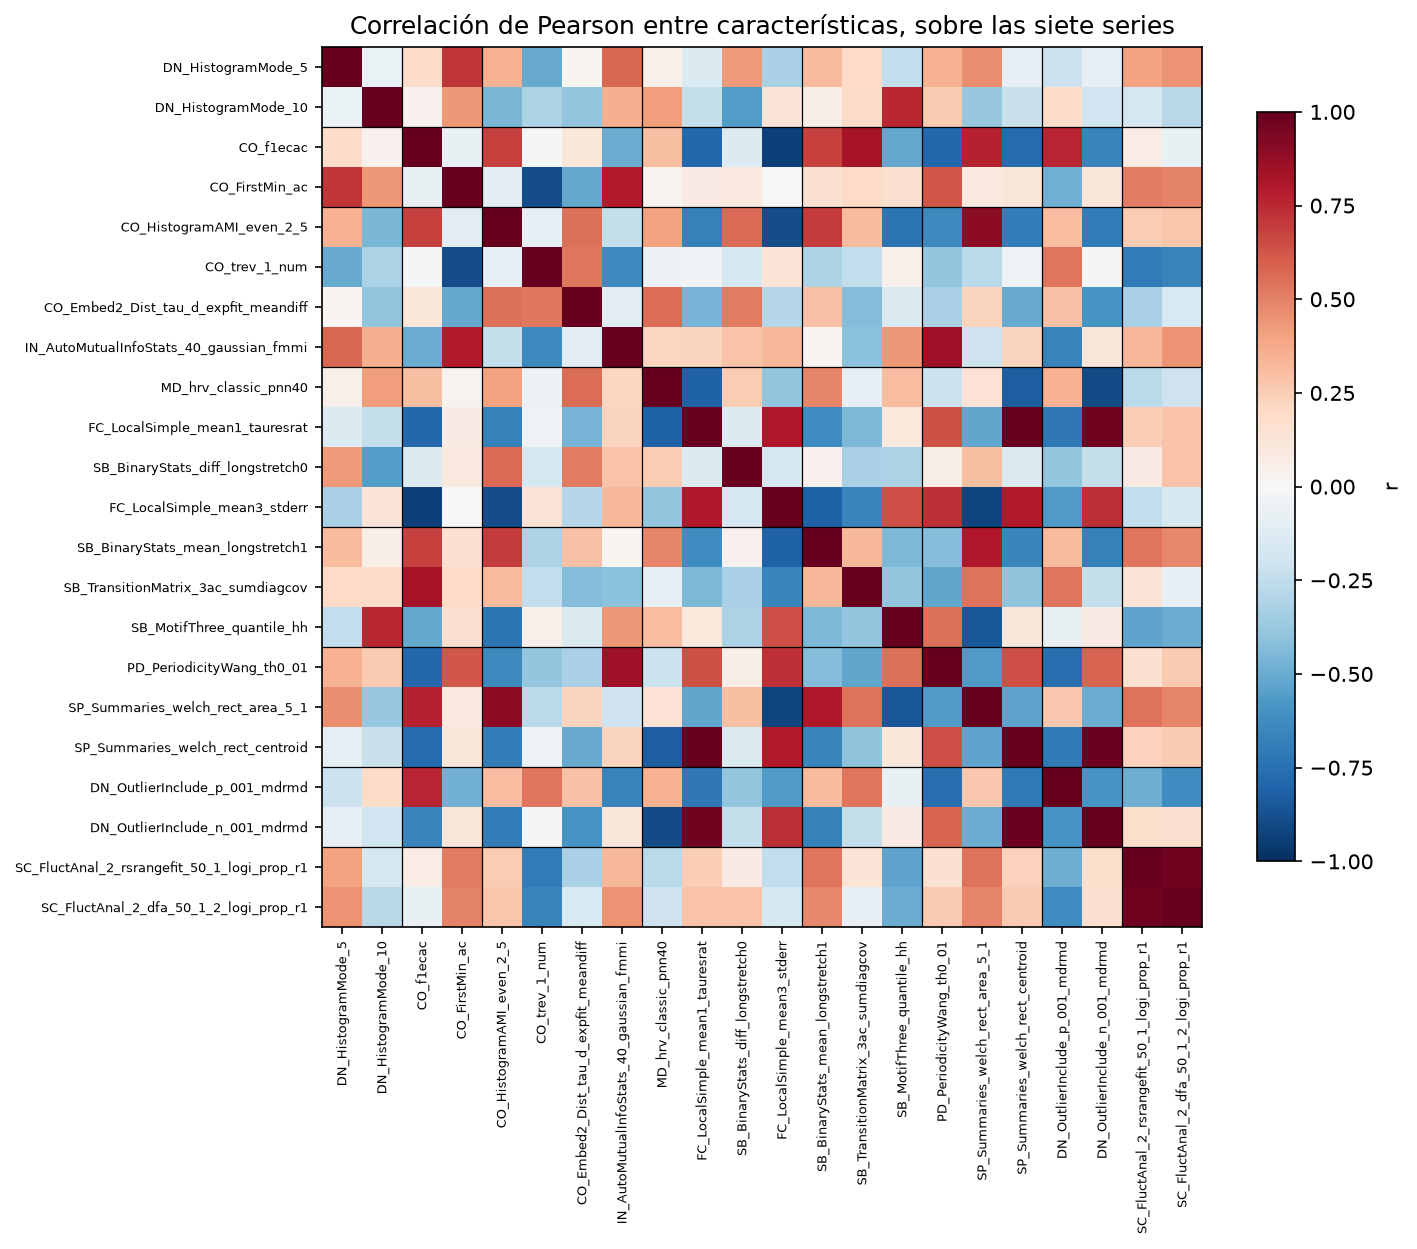
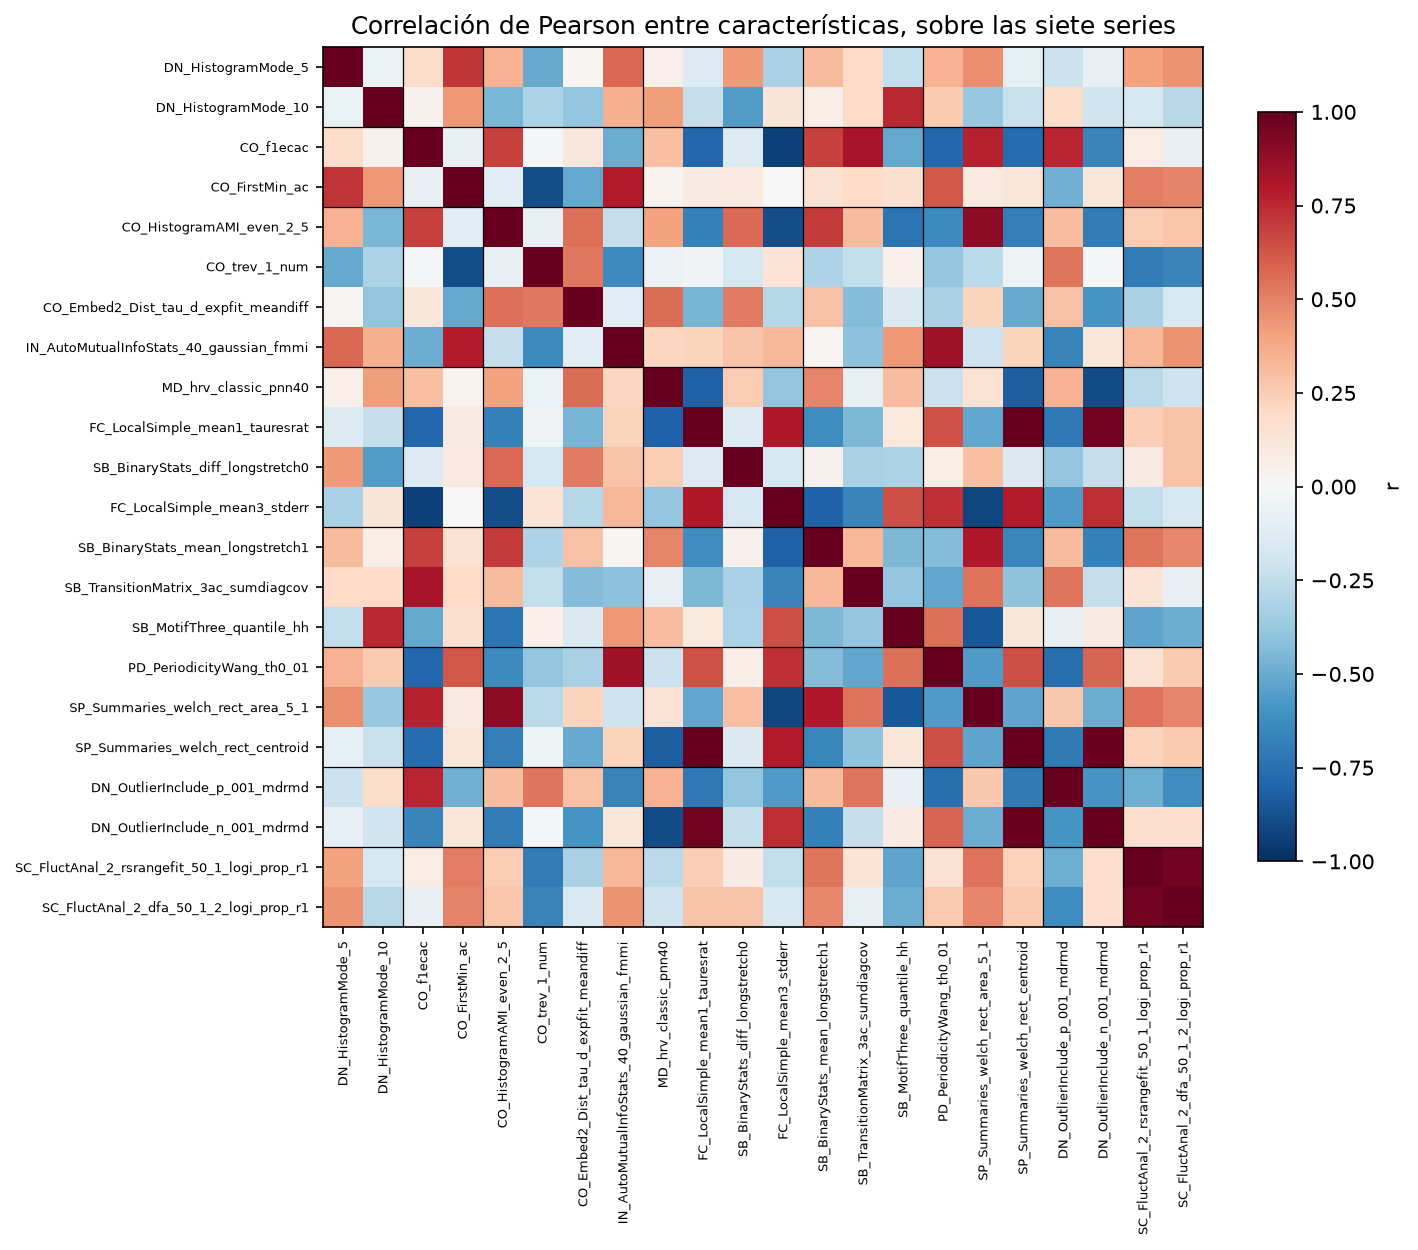
[Feat] inciso 2.5 done

diff --git a/src/catch22.py b/src/catch22.py
@@ -5,6 +5,7 @@ import numpy as np
 import pandas as pd
 import pycatch22
 from scipy.cluster.hierarchy import dendrogram, fcluster, leaves_list, linkage
+from scipy.spatial.distance import pdist, squareform
 from sklearn.cluster import KMeans
 from sklearn.decomposition import PCA
 from sklearn.metrics import silhouette_samples, silhouette_score
@@ -445,3 +446,48 @@ def figura_correlaciones(
     eje.set_title("Correlación de Pearson entre características, sobre las siete series")
     figura.colorbar(imagen, ax=eje, shrink=0.75, label="r")
     _guardar(figura, ruta_figuras / "catch22_correlaciones.png")
+
+
+def distancias(estandarizada: pd.DataFrame) -> pd.DataFrame:
+    # Misma matriz y misma distancia euclidiana que alimenta el enlace de Ward del inciso
+    # 5.2, así que el mapa de distancias y el dendrograma describen exactamente el mismo
+    # espacio y no dos nociones de similitud distintas.
+    matriz = squareform(pdist(estandarizada, metric="euclidean"))
+    return pd.DataFrame(matriz, index=estandarizada.index, columns=estandarizada.index)
+
+
+def figura_distancias(
+    distancia: pd.DataFrame,
+    orden_series: list[str],
+    ruta_figuras: Path = RUTA_FIGURAS,
+) -> None:
+    tabla = distancia.loc[orden_series, orden_series]
+    etiquetas = [SERIES[clave] for clave in orden_series]
+
+    figura, eje = plt.subplots(figsize=(6.5, 6))
+    # cmap secuencial, no divergente: la distancia euclidiana no tiene signo y 0 (una serie
+    # contra sí misma) es el extremo de similitud máxima, no un punto medio neutro.
+    imagen = eje.imshow(tabla, cmap="viridis_r")
+
+    eje.set_xticks(range(len(etiquetas)))
+    eje.set_xticklabels(etiquetas, rotation=30, ha="right")
+    eje.set_yticks(range(len(etiquetas)))
+    eje.set_yticklabels(etiquetas)
+
+    for fila in range(len(tabla)):
+        for columna in range(len(tabla)):
+            valor = tabla.iat[fila, columna]
+            color = "white" if valor > 0.6 * tabla.to_numpy().max() else "black"
+            eje.text(
+                columna,
+                fila,
+                f"{valor:.1f}",
+                ha="center",
+                va="center",
+                fontsize=7,
+                color=color,
+            )
+
+    eje.set_title("Distancia euclidiana entre series, sobre las 22 características estandarizadas")
+    figura.colorbar(imagen, ax=eje, shrink=0.8, label="distancia")
+    _guardar(figura, ruta_figuras / "catch22_distancias.png")
